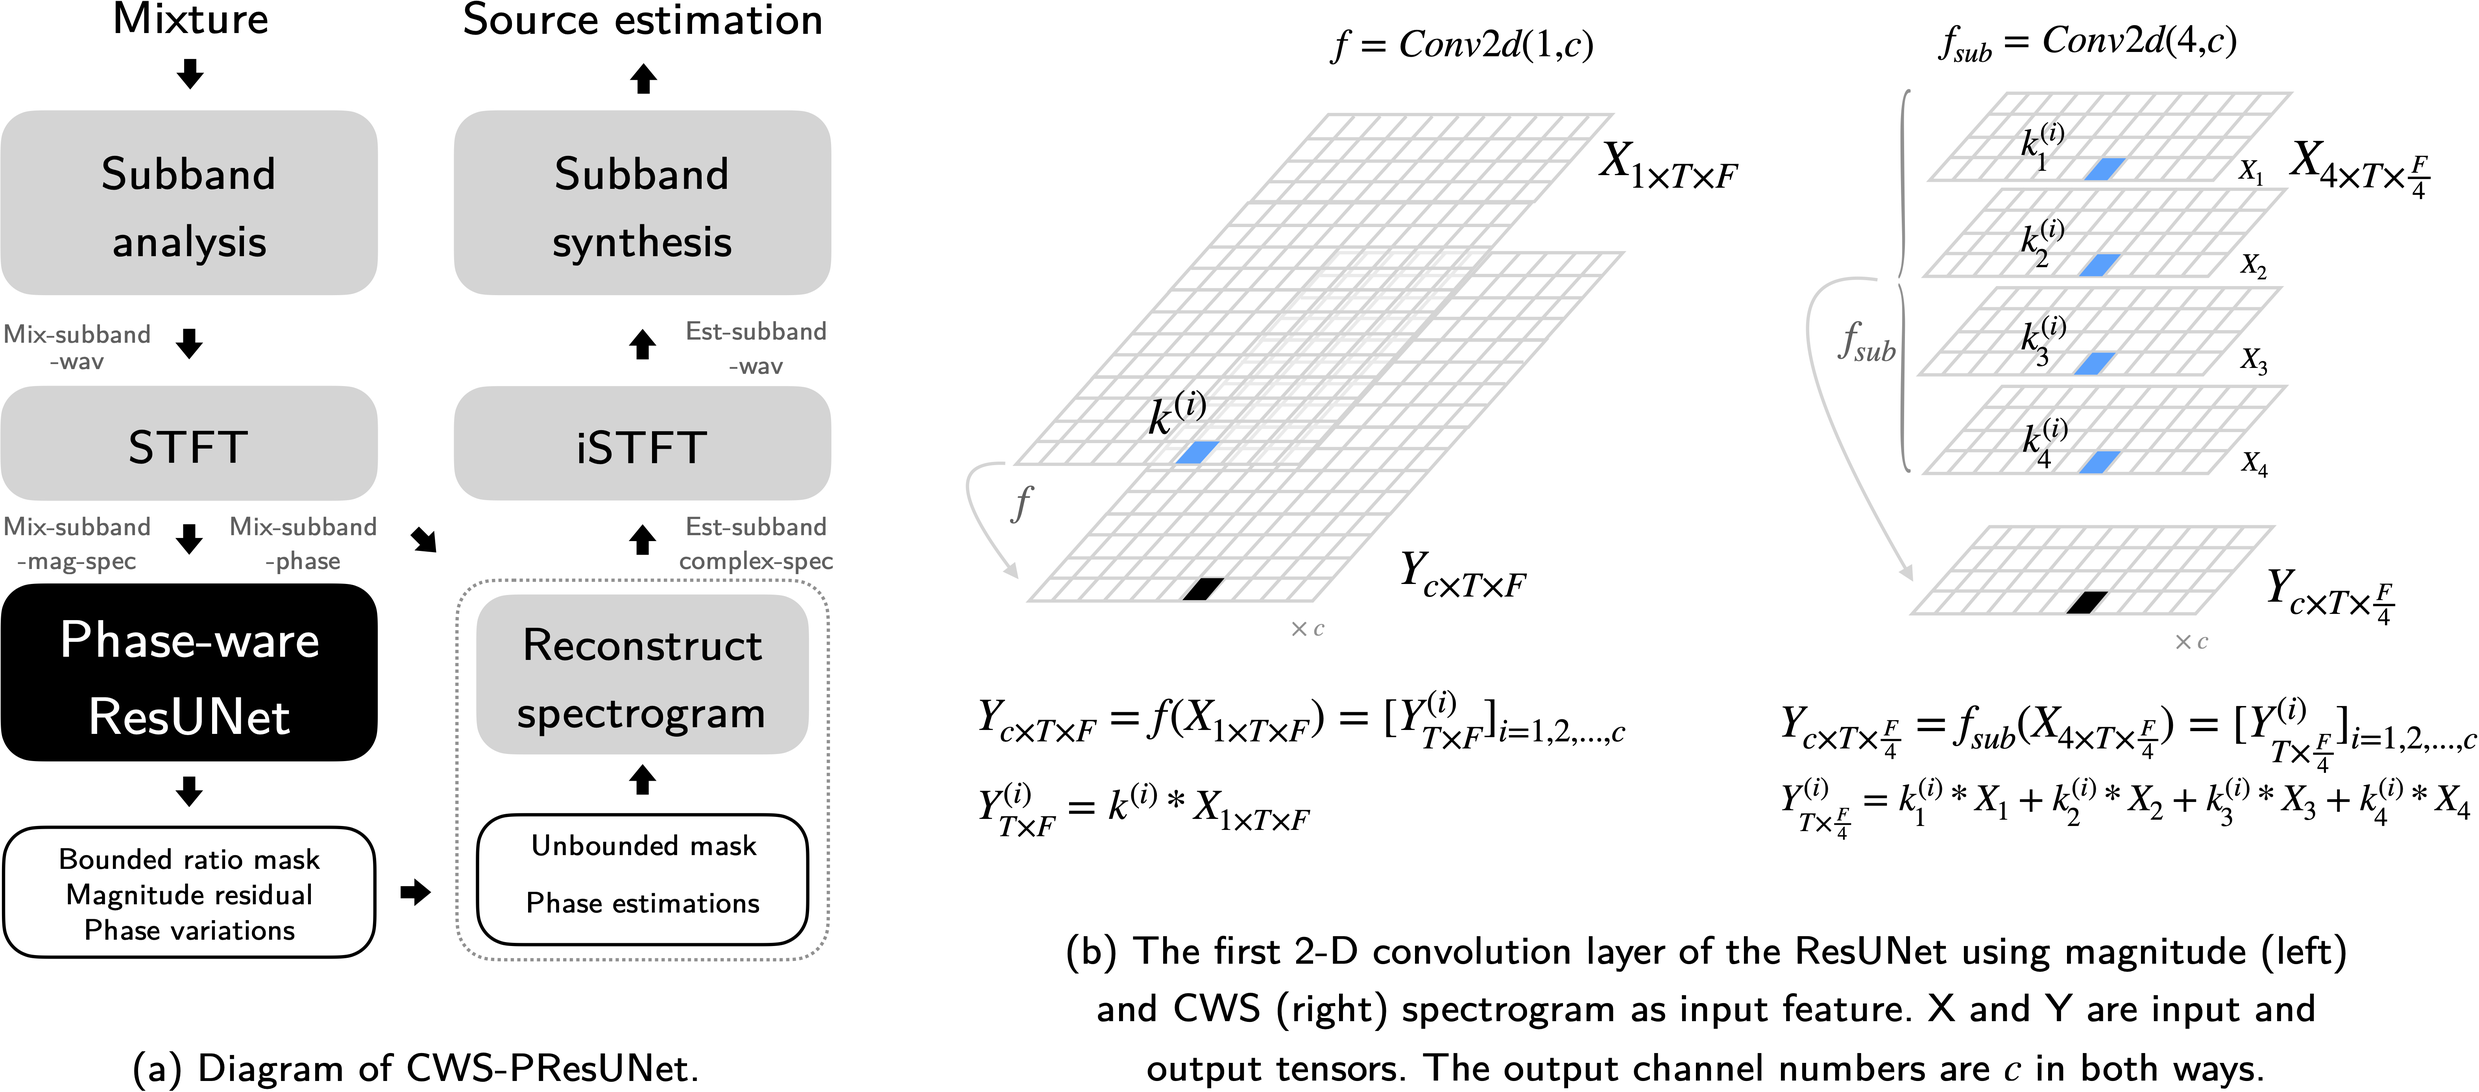
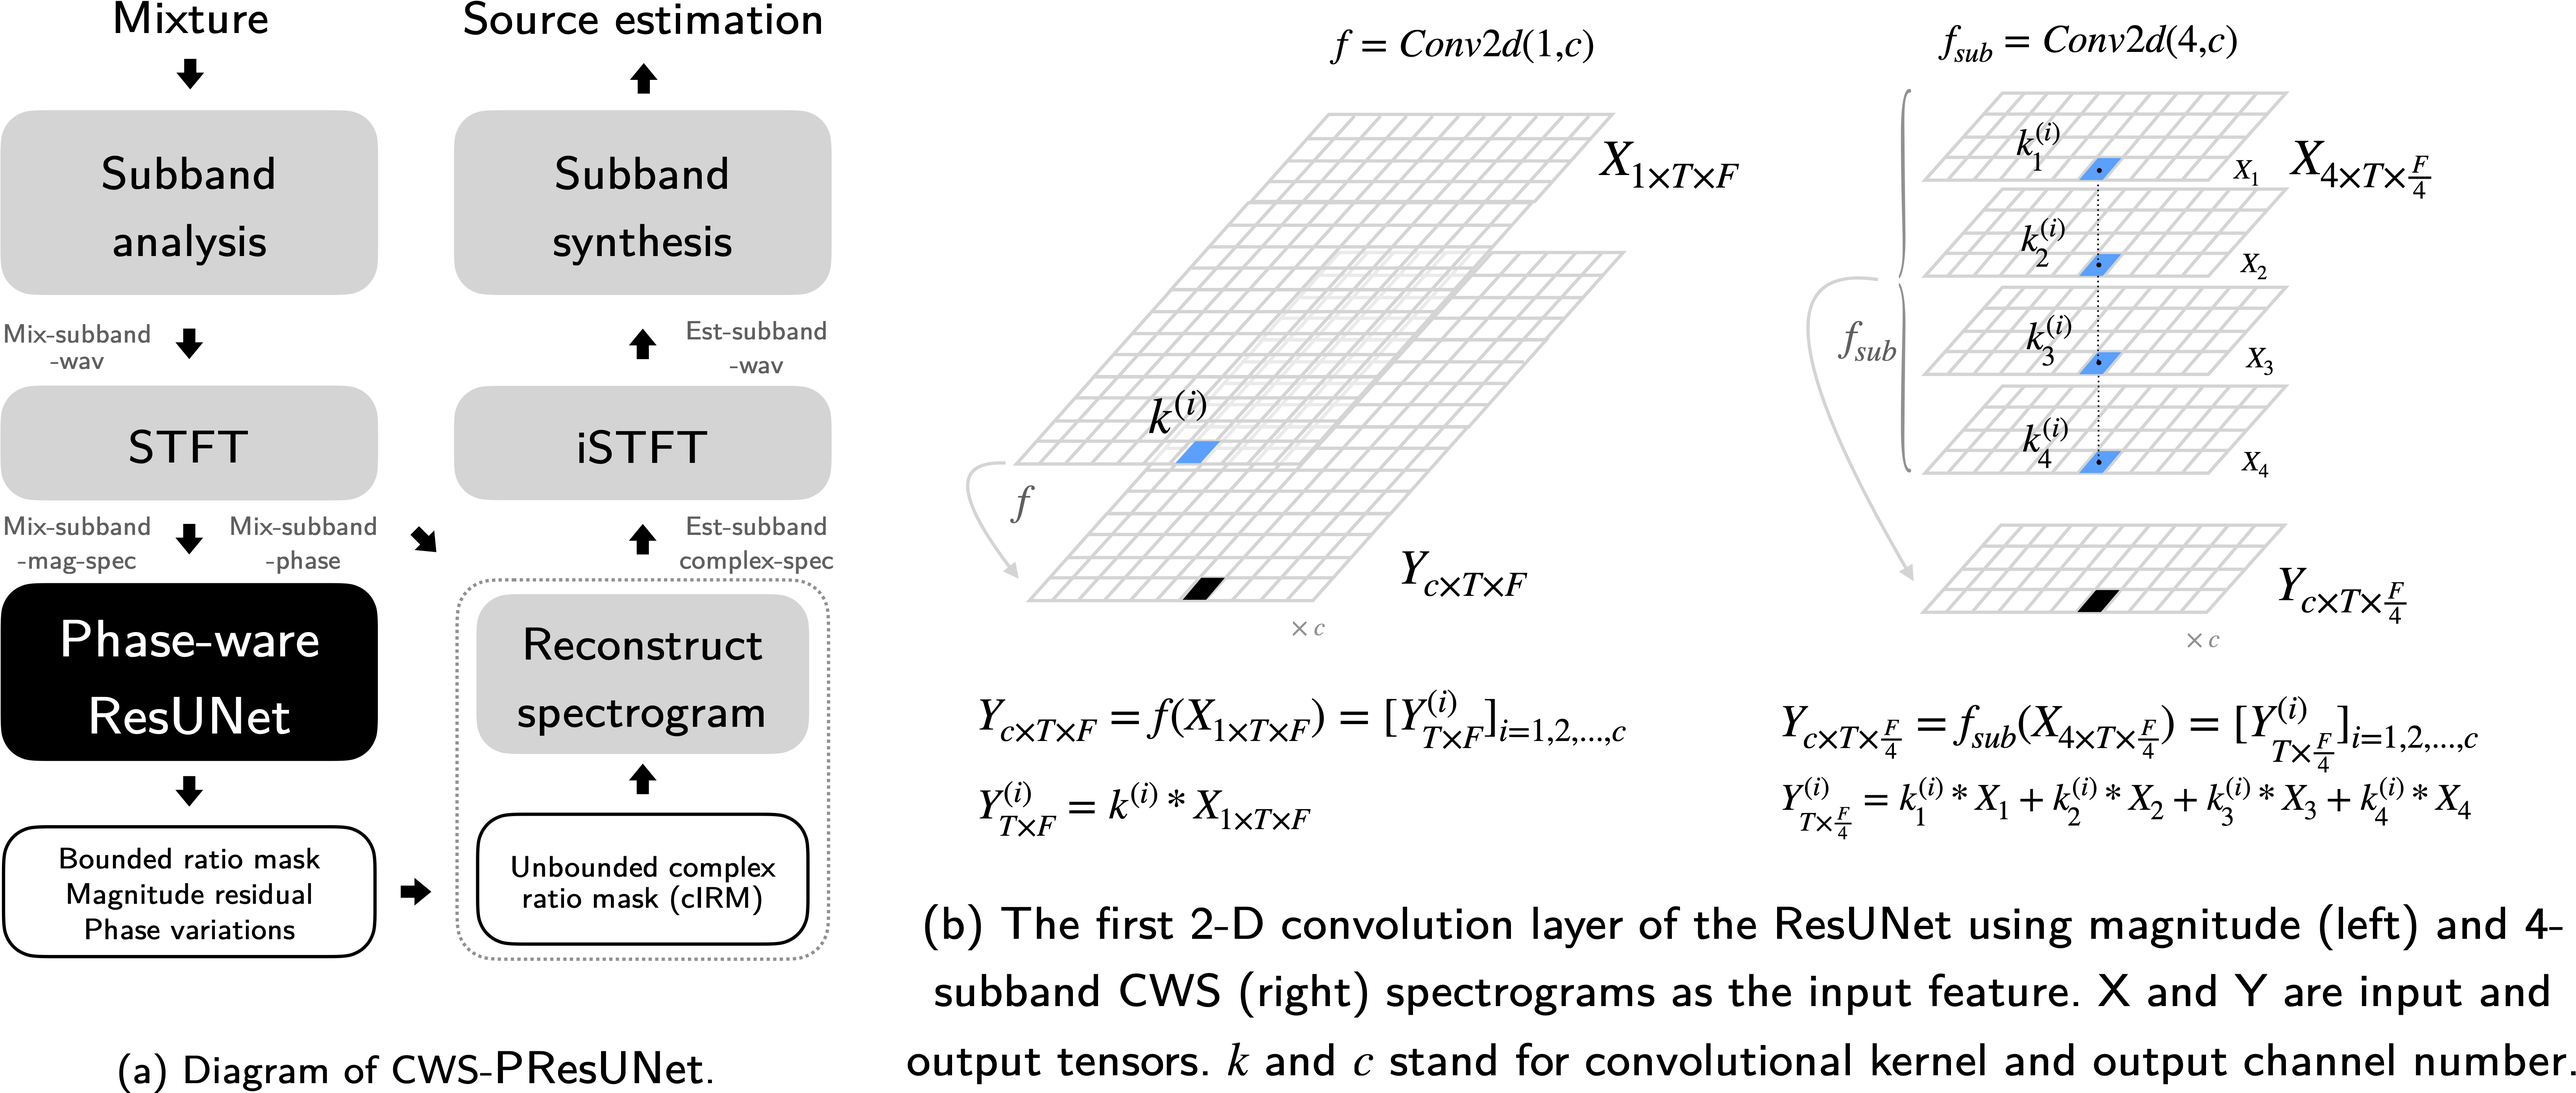
update text

diff --git a/paper.md b/paper.md
@@ -25,7 +25,7 @@ bibliography: paper.bib
 
 # Abstract	
 
-Music source separation (MSS) has shown tremendous success with deep learning models. Many MSS models perform separations on spectrogram by estimating bounded ratio masks and reusing the phase of mixture. If the model is convolutional neural network (CNN) based, weights are usually shared in each channel during convolution, regardless of the dissimilar patterns between frequency bands. In this study, we proposed a new model, channel-wise subband phase-aware ResUNet (CWS-PResUNet), which estimates unbound mask and phase variations in subbands for separations. CWS-PResUNet utilizes channel-wise subband (CWS) feature to limit unnecessary global weight sharing on spectrogram and reduce computational resource consumptions. The resource saved by CWS can in turn allow for a larger architecture. On MUSDB18HQ test set, a 276-layer CWS-PResUNet achieves state-of-the-art performance on *vocals* with a 8.92 SDR score. Based on CWS-PResUNet and Demucs, our ByteMSS system^[https://github.com/haoheliu/2021-ISMIR-MSS-Challenge-CWS-PResUNet] ranks 2nd on *vocals* score and 5th on average score in 2021 ISMIR Music Demixing Challenge limited training data track (leaderboard A).
+Music source separation (MSS) has shown tremendous success with deep learning models. Many MSS models perform separations on spectrogram by estimating bounded ratio mask and reusing the phase of mixture. If the model is convolutional neural network (CNN) based, weights are usually shared within channels during convolution, regardless of the dissimilar patterns between frequency bands. In this study, we proposed a new MSS model, channel-wise subband phase-aware ResUNet (CWS-PResUNet), which estimates unbound mask and phase variations in subbands for separations. CWS-PResUNet utilizes channel-wise subband (CWS) feature to limit unnecessary global weight sharing on spectrogram and reduce computational resource consumptions. The resource saved by CWS can in turn allow for a larger architecture. On MUSDB18HQ test set, a 276-layer CWS-PResUNet achieves state-of-the-art (SoTA) performance on *vocals* with a 8.92 SDR score. Based on CWS-PResUNet and Demucs, our ByteMSS system^[https://github.com/haoheliu/2021-ISMIR-MSS-Challenge-CWS-PResUNet] ranks 2nd on *vocals* score and 5th on average score in 2021 ISMIR Music Demixing Challenge limited training data track (leaderboard A).
 
 # Method
 
@@ -35,15 +35,15 @@ Music source separation (MSS) has shown tremendous success with deep learning mo
 
 **CWS-PResUNet** is a ResUNet[@zhang2018road;@liu2021voicefixer] based model integrating CWS feature [@liu2020channel] and the complex ideal ratio mask (cIRM) estimation strategies described in [@kong2021decoupling]. The overall pipline is summerized in Figure 1a. CWS-PResUNet contains a down-sampling and a up-sampling path with skip connections between the same level. As shown in Figure 1b, the CWS feature can make the CNN featuremaps smaller and save computational resources. Also, CNN will have separate weights in each channel by using CWS feature, in which case model becomes more efficient by diverging subband information into channels and enlarging receptive fields. Moreover, because bounded mask and mixture phase can limit the theoretical upper bound of MSS system [@kong2021decoupling], we estimate unbounded mask and phase variations in each subband to compute the unbounded cIRM. 
 
-Normally source-dedicated model only need to predict one source. For example, our `vocals` model calculate L1 loss between the target and estimation `vocals`. But for `other` track, we notice estimating and optimizing four sources together can result in a 0.2 SDR gain. So, in this case, we calculate both L1 loss and energy conservation loss across four sources to optimize our model.
+Normally source-dedicated model only need to predict one source. For example, our `vocals` model estimate `vocals` source and calculate L1 loss between the target. But for `other` track, we notice estimating and optimizing four sources together can result in a 0.2 SDR gain. So, we calculate both L1 loss and energy conservation loss across four sources to optimize our `other` model.
 
 **Demucs** is a model that perform separation in the time domain. In our study we adopted the open-sourced pretrained demucs^[https://github.com/facebookresearch/demucs] and do not apply the shift trick because it will make the inference speed slower.
 
 # Experiments
 
-Models are optimized using the training part of MUSDB18HQ[@rafii2019musdb18]. We use Adam optimizer with learning-rate warmup and exponential decay tricks. CWS-PResUNet takes approximately five days to train on a Tesla V100 GPU. We use a 10-second long `boxcar` windowing function with no overlapping to segment signal during inference. The evaluation is performed on MUSDB18HQ test set with the open-sourced tool *museval*[@SiSEC18]. 
+Models are optimized using the training part of MUSDB18HQ[@rafii2019musdb18]. We use Adam optimizer with learning-rate warmup and exponential decay tricks. CWS-PResUNet takes approximately five days to train on a Tesla V100 GPU. During inference phase, we utilize a 10-second long `boxcar` windowing function with no overlapping to segment signal for separation. For evaluation, we report the signal-to-distortion-ratio (SDR) on MUSDB18HQ test set with the open-sourced tool *museval*[@SiSEC18]. 
 
-The following table lists the results of the baselines and our proposed system. Evaluation  shows our CWS-PResUNets achieve a SDR of 8.92 and 5.84 on `vocals` and `other` sources, respectively, outperforming baseline system X-UMX[@x-umx-sawata2021all], D3Net[@takahashi2020d3net], and Demucs by a large margin. The SDR of the `other` model will decrease to 5.62 if not trained with four sources. The open-sourced demucs perform better than CWS-PResUNet on `bass` and `drums` and we integrate demucs directly in ByteMSS. 
+The following table lists the results of the baselines and our proposed system. Our CWS-PResUNets achieve a SDR of 8.92 and 5.84 on `vocals` and `other` sources, respectively, outperforming baseline system X-UMX[@x-umx-sawata2021all], D3Net[@takahashi2020d3net], and Demucs by a large margin. Also, experiment shows the SDR of the `other` model will decrease to 5.62 if not trained with four sources. Although the inferior performance on `vocals` and `other`, the open-sourced demucs perform better than CWS-PResUNet on `bass` and `drums`. We assume that's because time domain models are not bottlenecked with fixed spectrogram resolution as in frequency model, thus is more suitable on purcussive and band-limited sources. The average performance of our ByteMSS system is 6.97, marking a SoTA performance on MSS. Future work will direct on the integration of time domain and frequency domain models for mutual compensations.
 
 |    Models    | Vocals | Drums |  Bass | Other | Average |
 |:------------:|:------:|:-----:|:-----:|:-----:|:-------:|
@@ -52,5 +52,9 @@ The following table lists the results of the baselines and our proposed system. 
 |    Demucs    |  6.89  | **6.57**  | **6.53**  | 5.14  |  6.28   |
 | CWS-PResUNet |  **8.92**  | 6.38  | 5.93  | **5.84**  |  6.77   |
 |    ByteMSS   |  8.92  | 6.57  | 6.53  | 5.84  |  **6.97**   |
+
+
+# Conclusion
+
 
 # Reference
